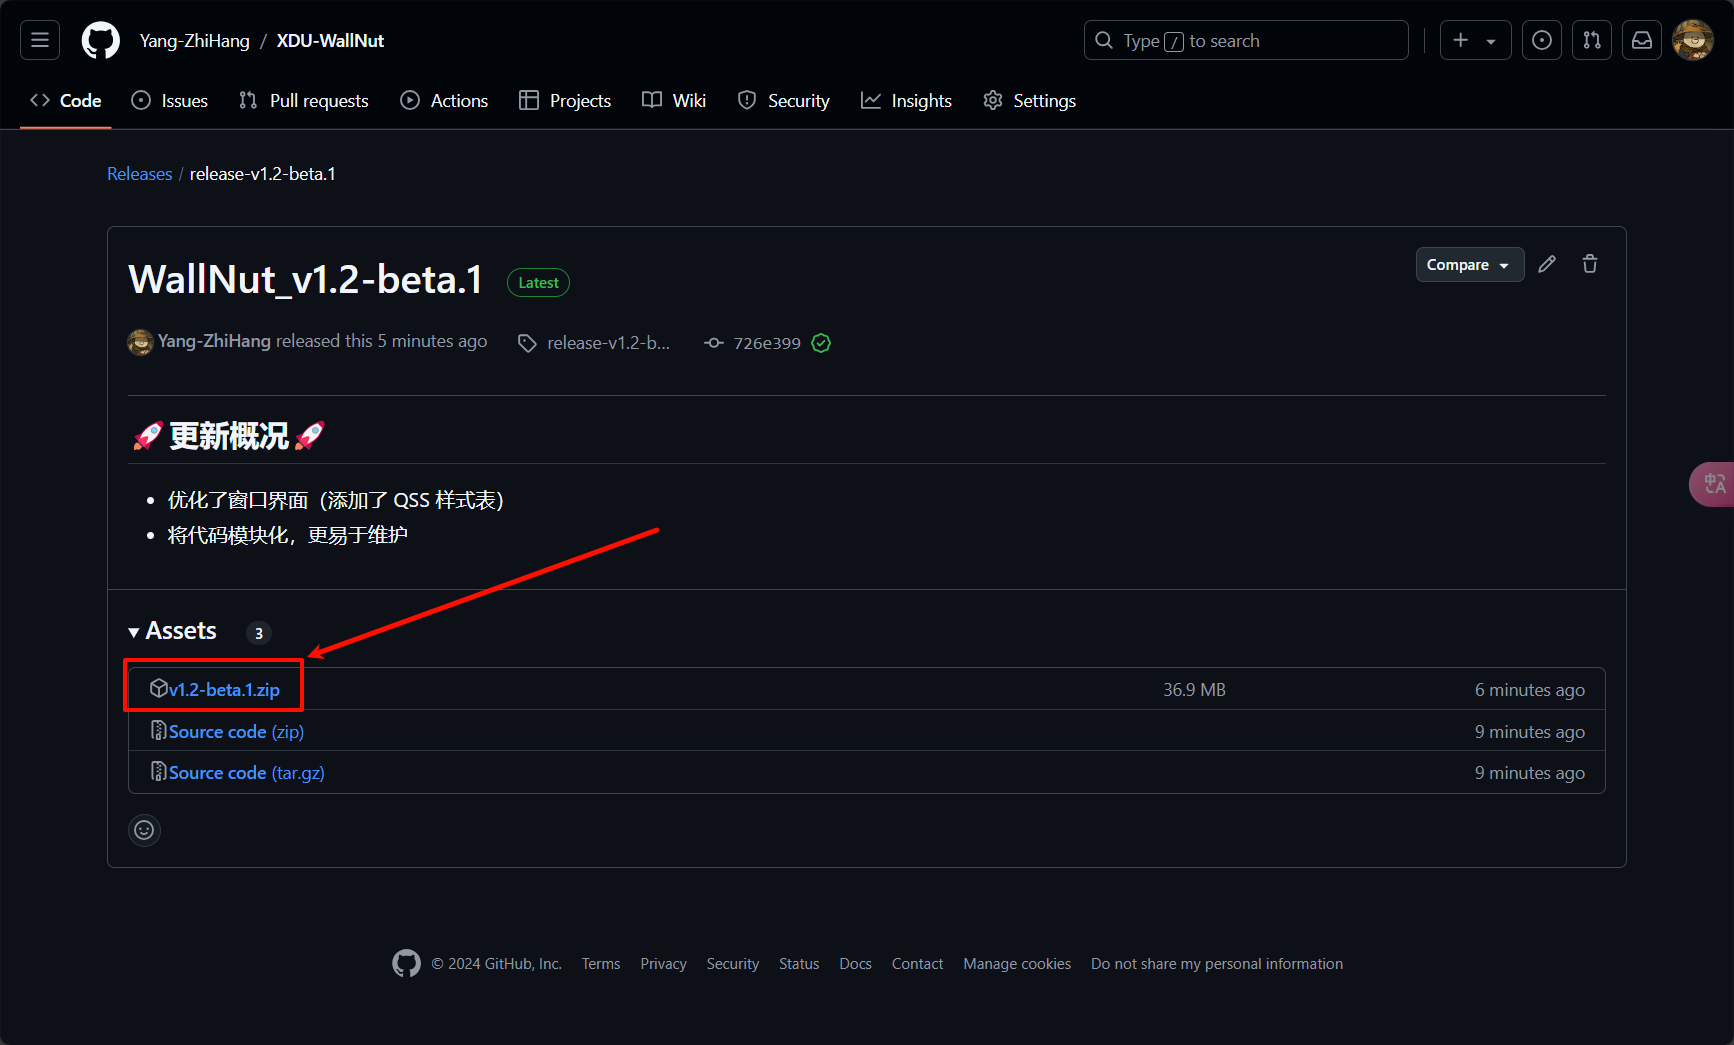
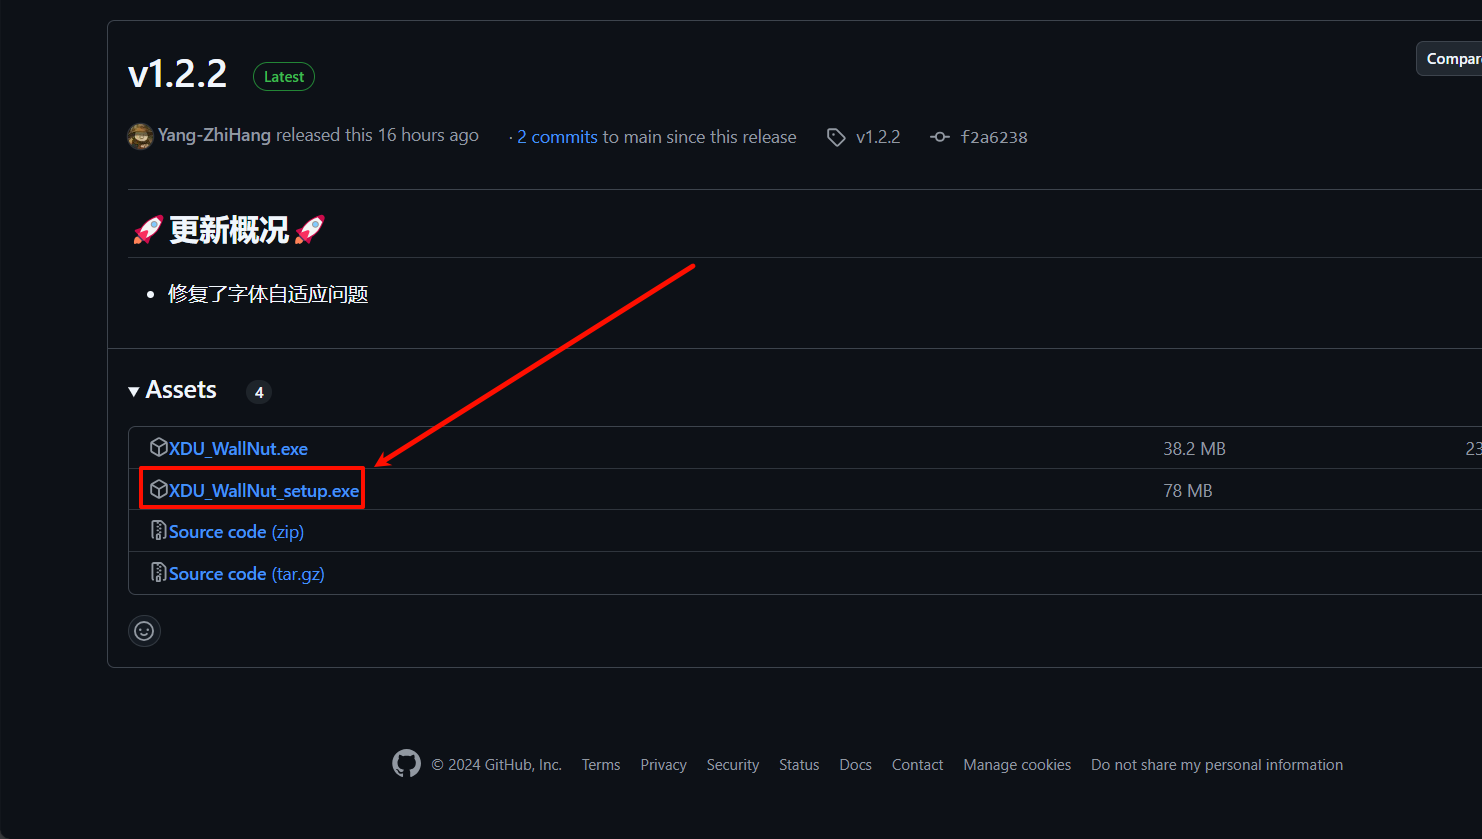
docs: 修改了 README

diff --git a/README.md b/README.md
@@ -39,6 +39,8 @@
 
 <img src='./assert/1.png'>
 
+下载有 `setup` 这个词的 `exe` 文件
+
 <img src='./assert/2.png'>
 
 **2. 解压压缩包**
